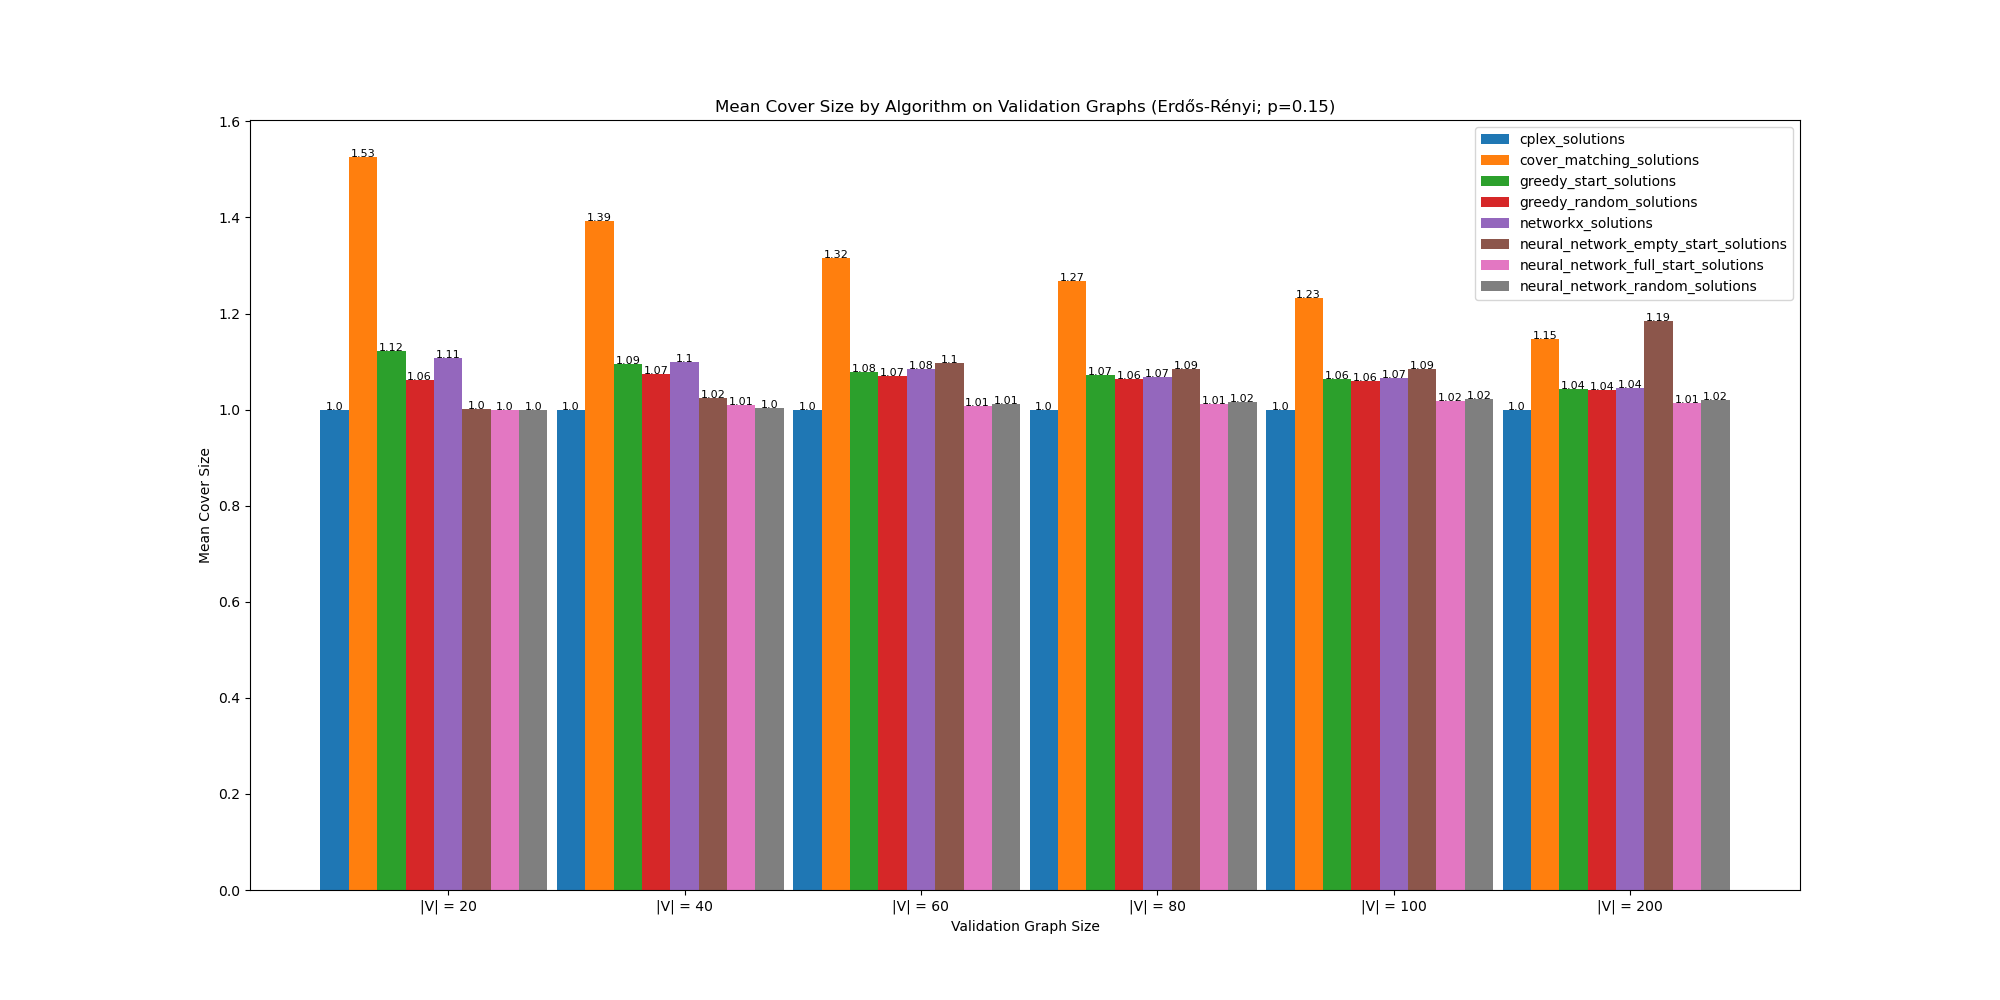
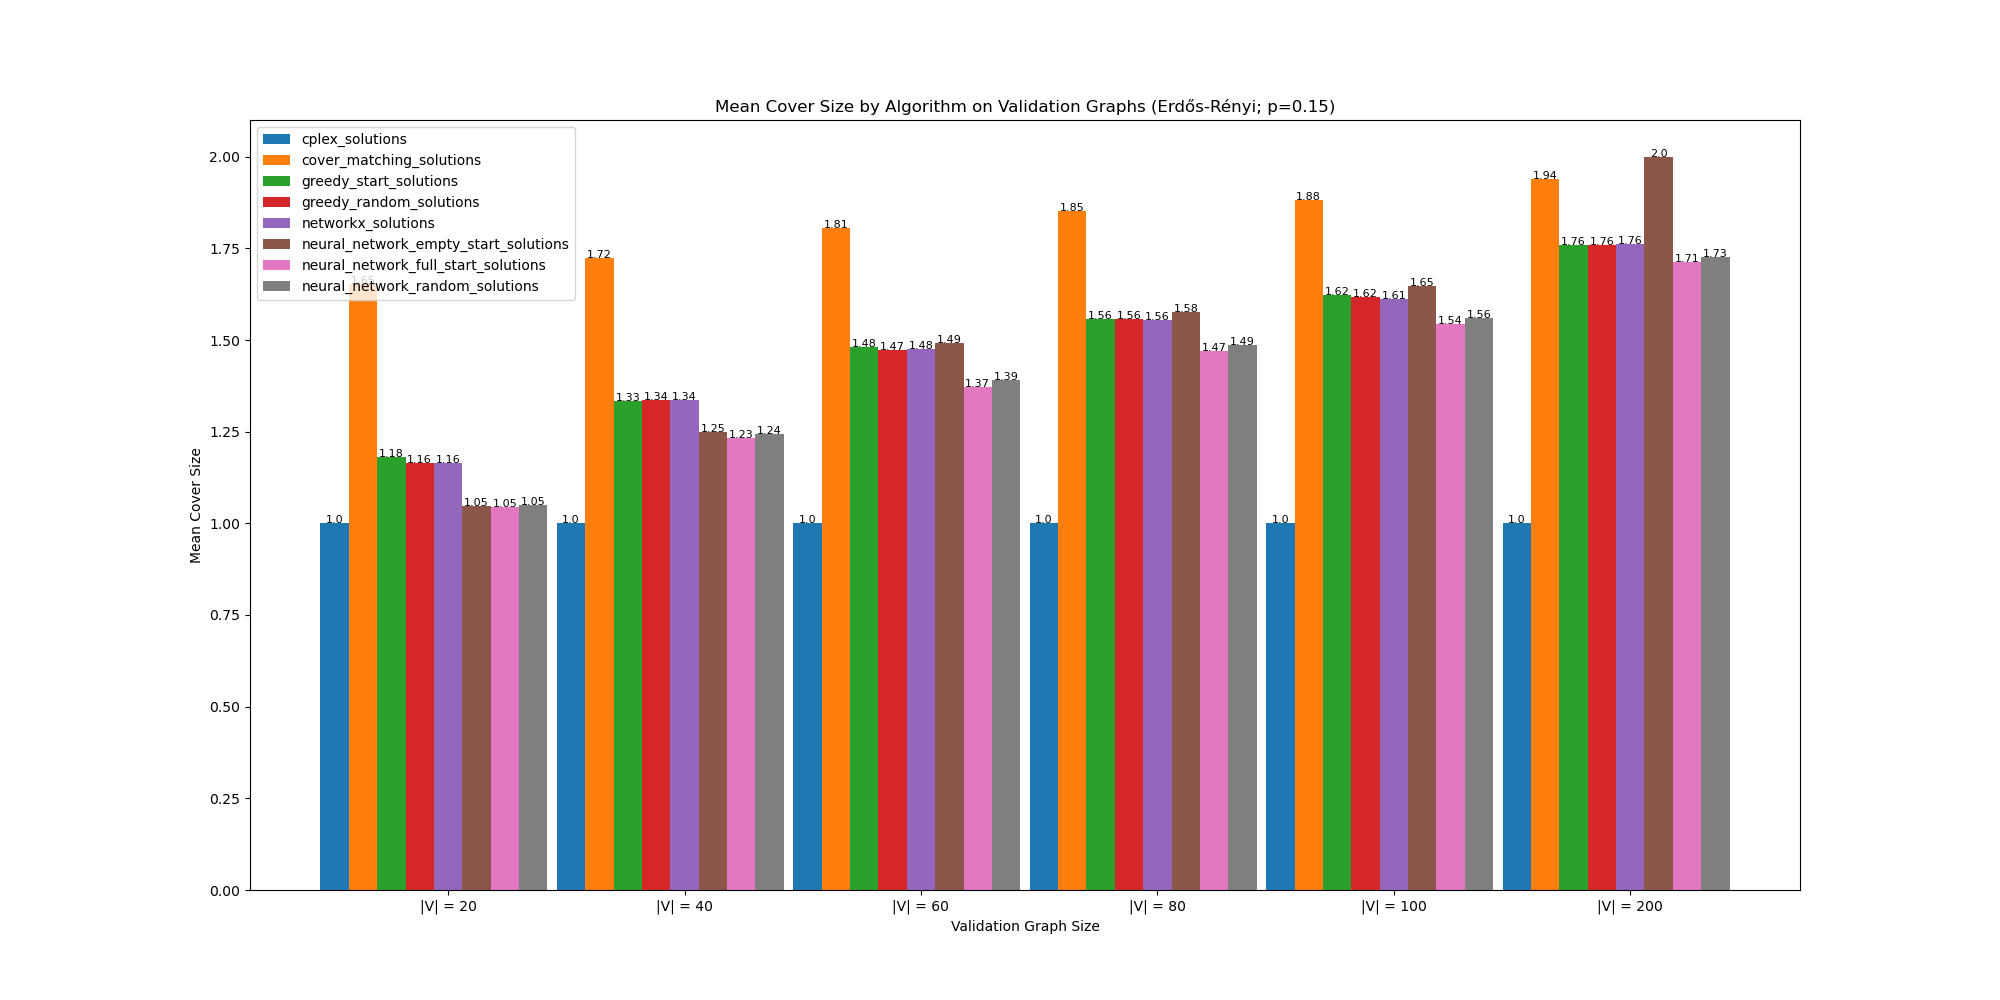
new data

diff --git a/create_mvc_test_plots.py b/create_mvc_test_plots.py
@@ -12,6 +12,9 @@ width = 0.12
 with open('test_data20.txt') as f:
     solution_data : dict = eval(f.read())
 
+with open('test_times20.txt') as f:
+    solution_times : dict = eval(f.read())
+
 algorithms = list(solution_data.keys())
 
 # Want to get mean from every non-single graph test
@@ -20,7 +23,13 @@ for alg in solution_data:
     if type(solution_data[alg][0][0]) == list:
         for i in range(len(solution_data[alg])):
             for j in range(len(solution_data[alg][i])):
-                solution_data[alg][i][j] = int(np.mean(solution_data[alg][i][j]))
+                solution_data[alg][i][j] = np.mean(solution_data[alg][i][j])
+
+for alg in solution_times:
+    if type(solution_times[alg][0][0]) == list:
+        for i in range(len(solution_times[alg])):
+            for j in range(len(solution_times[alg][i])):
+                solution_times[alg][i][j] = np.mean(solution_times[alg][i][j])
 
 # Now we create approximation ratios with respect to the cplex solutions (always first in dict)
 for i in solution_data:
@@ -34,6 +43,10 @@ for alg in solution_data:
 for alg in solution_data:
     for i in range(len(solution_data[alg])):
         solution_data[alg][i] = np.mean(solution_data[alg][i])
+
+for alg in solution_times:
+    for i in range(len(solution_times[alg])):
+        solution_times[alg][i] = np.mean(solution_times[alg][i])
 
 bars = []
 plt.figure(figsize=(20, 10))
@@ -52,3 +65,26 @@ plt.title("Mean Cover Size by Algorithm on Validation Graphs (Erdős-Rényi; p=0
 plt.xticks(ind + width * len(solution_data) / 2, x)
 plt.legend(tuple(bars), tuple(algorithms))
 plt.savefig('test20.png')
+
+plt.figure().clear()
+plt.close()
+plt.cla()
+plt.clf()
+
+plt.figure(figsize=(20, 10))
+solution_times['neural_network_random_start_times'] = np.divide(solution_times['neural_network_random_start_times'], 50)
+
+for i, data in enumerate(solution_times):
+    bars.append(plt.bar(ind + width * i, solution_times[data], width))
+
+for i, alg in enumerate(solution_times):
+    for j in range(len(solution_times[alg])):
+        plt.text(j + i * width, solution_times[alg][j], round(solution_times[alg][j], 2), ha='center', fontsize=8)
+
+
+plt.xlabel("Validation Graph Size")
+plt.ylabel("Mean Time to Solve")
+plt.title("Mean Time to Solve by Algorithm on Validation Graphs (Erdős-Rényi; p=0.15)")
+plt.xticks(ind + width * len(solution_times) / 2, x)
+plt.legend(tuple(bars), tuple(algorithms))
+plt.savefig('test_times20.png')
